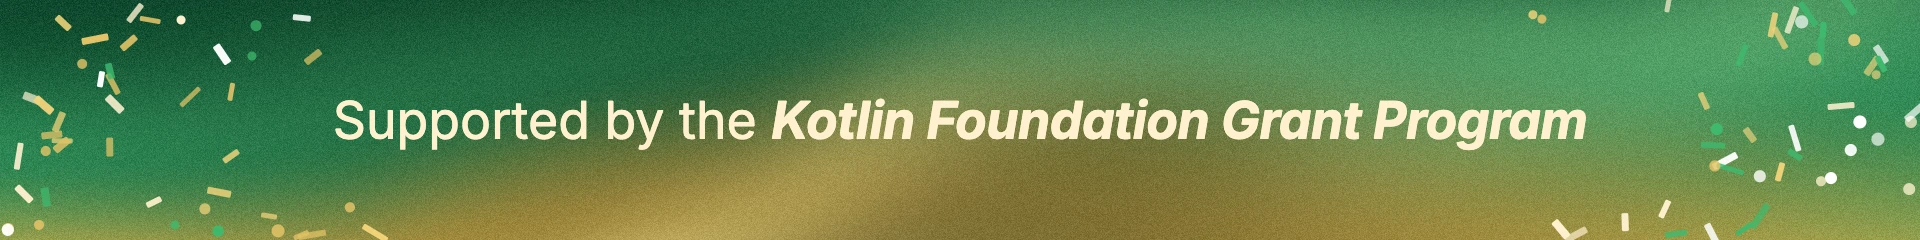
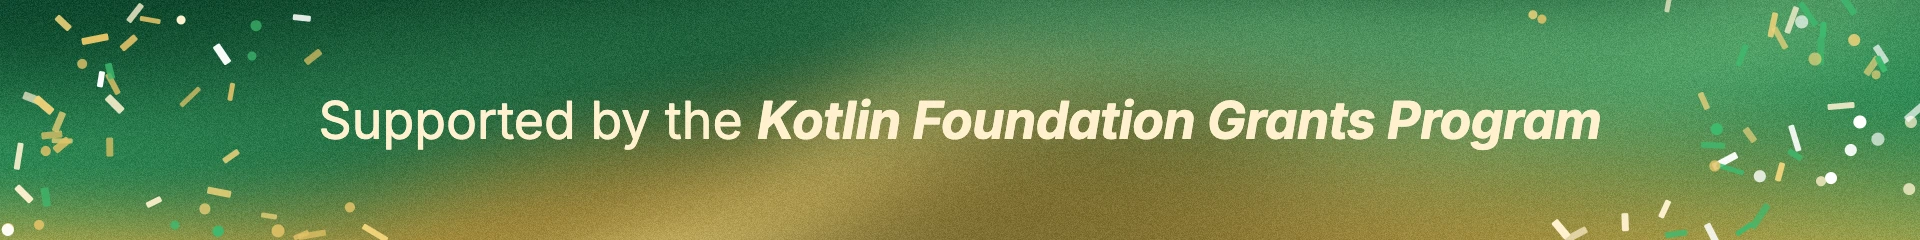
🔗 Link the grant announcement
Point the README banner, the docs banner and the docs snippet to the Kotlin Foundation post,
and use the program's official name (Kotlin Foundation Grants Program), banner images included.

Changed region(s): [[0.1562, 0.4083, 0.8438, 0.6417]]

diff --git a/docs/snippets/grant-banner.jsx b/docs/snippets/grant-banner.jsx
@@ -7,10 +7,10 @@
  *
  *   <GrantBanner />
  */
-export const grantPostUrl = "https://kotlinfoundation.org/news/#FILEKIT_GRANT_POST_URL"
+export const grantPostUrl = "https://kotlinfoundation.org/news/grants-program-winners-26/"
 
 export const GrantBanner = () => {
-  const alt = "FileKit is supported by the Kotlin Foundation Grant Program"
+  const alt = "FileKit is supported by the Kotlin Foundation Grants Program"
   return (
     <a
       href={grantPostUrl}
@@ -20,7 +20,7 @@ export const GrantBanner = () => {
       <img src="/brand/grant-banner-dark.webp" alt={alt} width="1920" height="240" className="hidden w-full dark:block" />
       <p className="px-5 py-3 text-sm text-gray-700 dark:text-gray-300">
         The grant supports the work toward FileKit 1.0.{" "}
-        <span className="font-semibold text-primary group-hover:underline dark:text-primary-light">
+        <span className="whitespace-nowrap font-semibold text-primary group-hover:underline dark:text-primary-light">
           Read the announcement →
         </span>
       </p>

diff --git a/brand/src/banner.html b/brand/src/banner.html
@@ -35,7 +35,7 @@
   <canvas></canvas>
   <div class="confetti"></div>
   <div class="text">
-    <div class="line">Supported by the <b>Kotlin Foundation Grant Program</b></div>
+    <div class="line">Supported by the <b>Kotlin Foundation Grants Program</b></div>
     <div class="cta" hidden>Read the announcement →</div>
   </div>
 </div>

diff --git a/README.md b/README.md
@@ -22,10 +22,10 @@
     <a href="https://filekit.mintlify.app/roadmap"><b>Roadmap to 1.0</b></a>
   </p>
 
-  <a href="https://kotlinfoundation.org/news/#FILEKIT_GRANT_POST_URL">
+  <a href="https://kotlinfoundation.org/news/grants-program-winners-26/">
     <picture>
       <source media="(prefers-color-scheme: dark)" srcset="brand/exports/grant-banner-dark.webp" />
-      <img src="brand/exports/grant-banner-light.webp" width="960" alt="FileKit is supported by the Kotlin Foundation Grant Program. Read the announcement." />
+      <img src="brand/exports/grant-banner-light.webp" width="960" alt="FileKit is supported by the Kotlin Foundation Grants Program. Read the announcement." />
     </picture>
   </a>
 </div>
